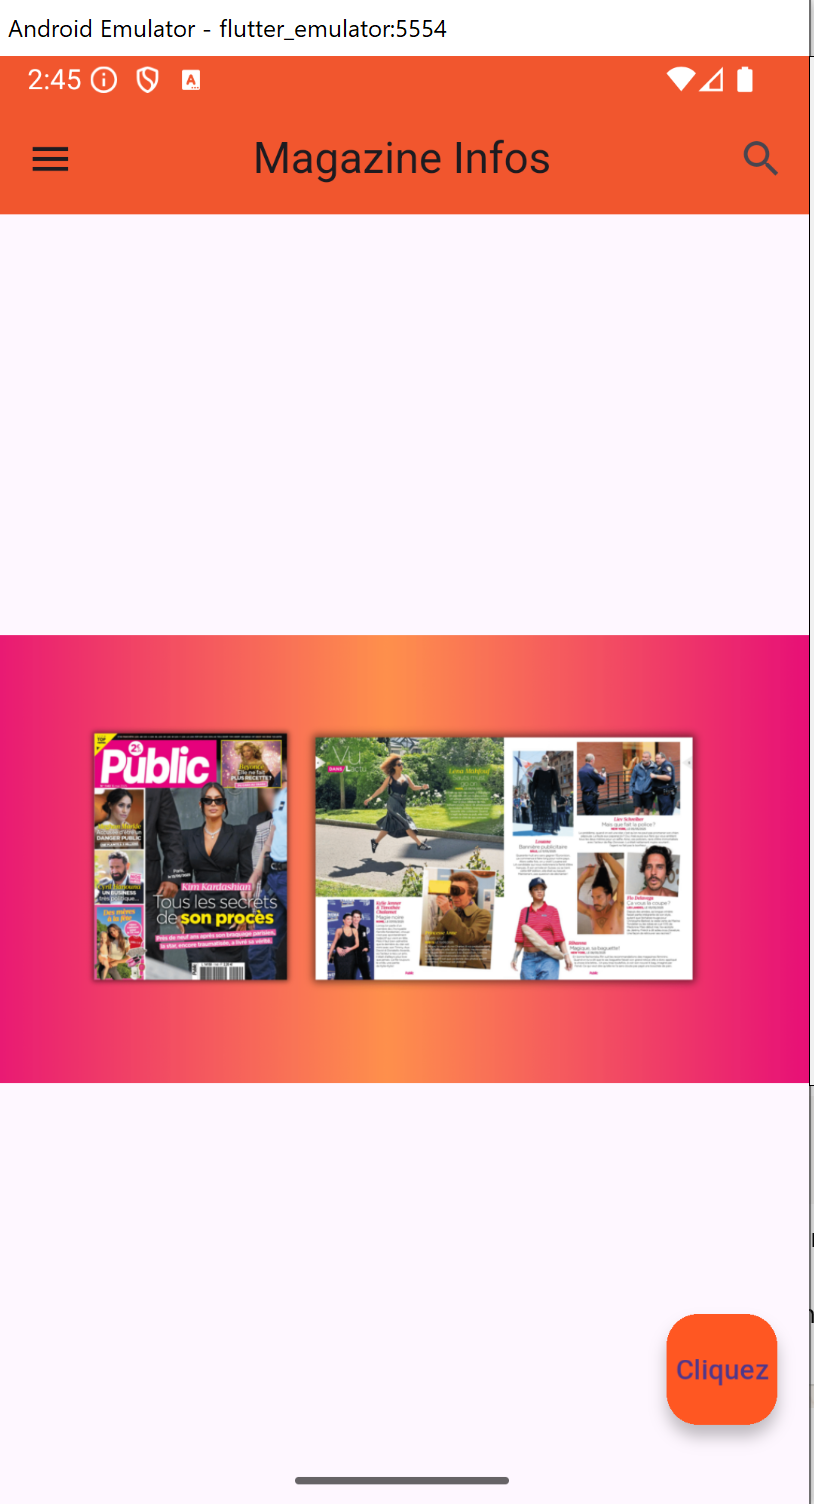
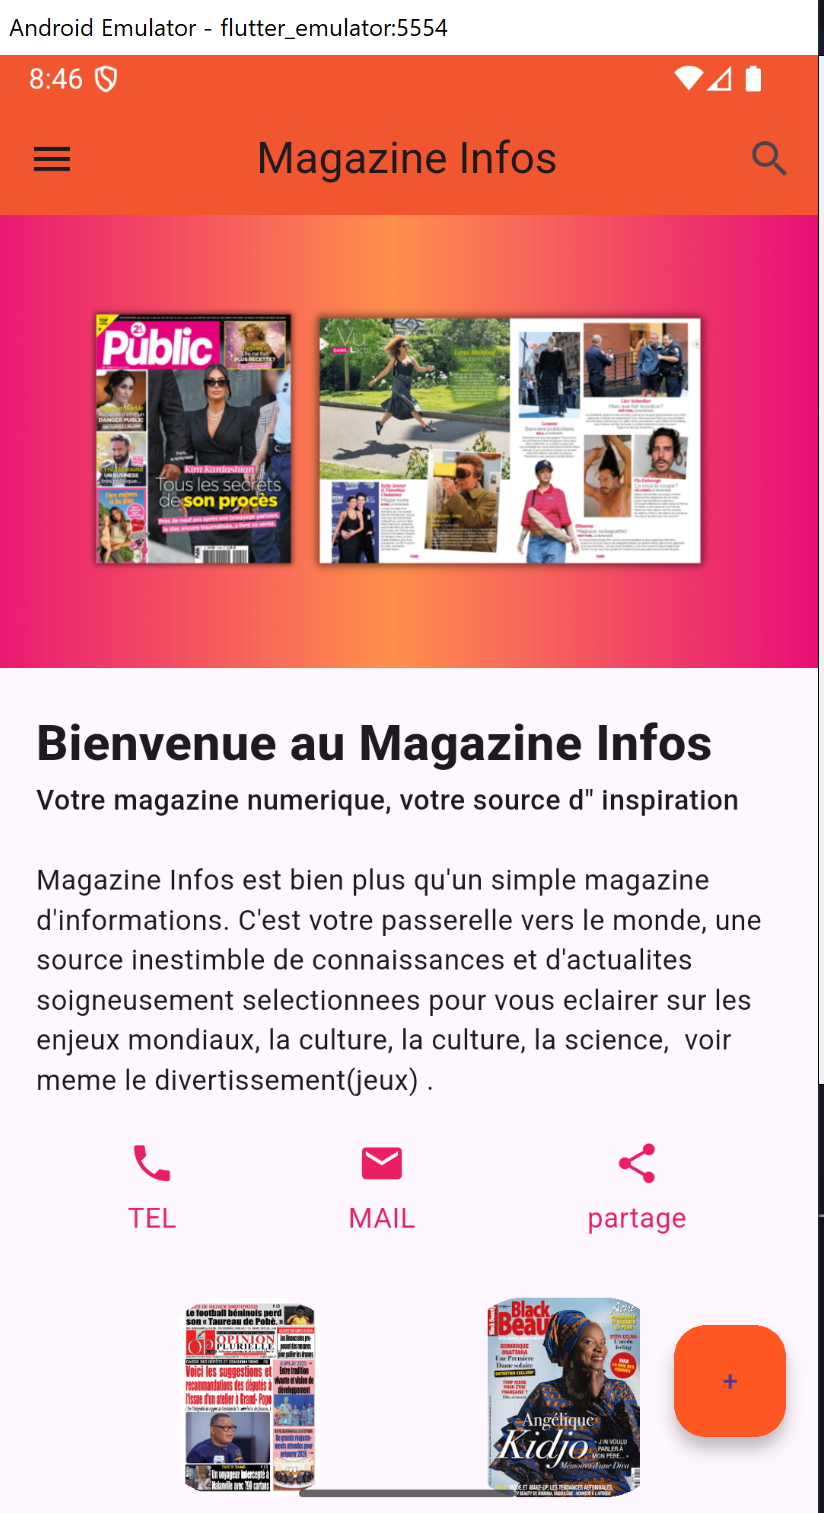
Implementation de l'Activite 4 dans l'application

diff --git a/lib/main.dart b/lib/main.dart
@@ -17,13 +17,13 @@ class MonApp extends StatelessWidget {
         visualDensity: VisualDensity
             .adaptivePlatformDensity, //Ajustement suivqnt la plateforme
       ),
-      home: pageAccueil(),
+      home: PageAccueil(),
     );
   }
 }
 
-class pageAccueil extends StatelessWidget {
-  const pageAccueil({super.key});
+class PageAccueil extends StatelessWidget {
+  const PageAccueil({super.key});
 
   @override
   Widget build(BuildContext context) {
@@ -49,8 +49,15 @@ class pageAccueil extends StatelessWidget {
           ),
         ],
       ),
-      body: const Center(
-        child: Image(image: AssetImage('assets/images/magazinei.jpg')),
+      body: const Column(
+        children: [
+          Image(image: AssetImage('assets/images/magazinei.jpg')),
+          PartieTitre(),
+          PartieTexte(),
+          PartieIcone(),
+          PartieRubrique(),
+          //PartieButton(),
+        ],
       ),
       floatingActionButton: FloatingActionButton(
         onPressed: () {
@@ -58,8 +65,153 @@ class pageAccueil extends StatelessWidget {
         },
         tooltip: "Click",
         backgroundColor: Colors.deepOrange,
-        child: const Text('Click'),
+        child: const Text('+'),
       ),
     );
   }
 }
+
+class PartieTitre extends StatelessWidget {
+  const PartieTitre({super.key});
+
+  @override
+  Widget build(BuildContext context) {
+    return Container(
+      width: double.infinity,
+      padding: const EdgeInsets.all(20),
+      child: Column(
+        crossAxisAlignment: CrossAxisAlignment.start,
+        children: [
+          Text(
+            "Bienvenue au Magazine Infos",
+            style: TextStyle(fontSize: 25, fontWeight: FontWeight.w800),
+          ),
+          Text(
+            "Votre magazine numerique, votre source d"
+            '" inspiration',
+            style: TextStyle(fontSize: 14, fontWeight: FontWeight.w500),
+          ),
+        ],
+      ),
+    );
+  }
+}
+
+class PartieTexte extends StatelessWidget {
+  const PartieTexte({super.key});
+
+  @override
+  Widget build(BuildContext context) {
+    return Container(
+      padding: const EdgeInsets.symmetric(horizontal: 20),
+      child: const Text(
+        "Magazine Infos est bien plus qu'un simple magazine d'informations. C'est votre passerelle vers le monde, une source inestimble de connaissances et d'actualites soigneusement selectionnees pour vous eclairer sur les enjeux mondiaux, la culture, la culture, la science,  voir meme le divertissement(jeux) .",
+      ),
+    );
+  }
+}
+
+class PartieIcone extends StatelessWidget {
+  const PartieIcone({super.key});
+
+  @override
+  Widget build(BuildContext context) {
+    return Container(
+      padding: const EdgeInsets.only(bottom: 10),
+      child: Row(
+        mainAxisAlignment: MainAxisAlignment.spaceEvenly,
+        children: [
+          Container(
+            padding: const EdgeInsets.all(20),
+            child: Column(
+              children: [
+                const Icon(Icons.phone, color: Colors.pink),
+                const SizedBox(height: 5),
+                Text(
+                  "Tel".toUpperCase(),
+                  style: const TextStyle(color: Colors.pink),
+                ),
+              ],
+            ),
+          ),
+          Container(
+            padding: const EdgeInsets.all(20),
+            child: Column(
+              children: [
+                const Icon(Icons.mail, color: Colors.pink),
+                const SizedBox(height: 5),
+                Text(
+                  "Mail".toUpperCase(),
+                  style: const TextStyle(color: Colors.pink),
+                ),
+              ],
+            ),
+          ),
+          Container(
+            padding: const EdgeInsets.all(20),
+            child: Column(
+              children: [
+                const Icon(Icons.share, color: Colors.pink),
+                const SizedBox(height: 5),
+                Text(
+                  "Partage".toLowerCase(),
+                  style: const TextStyle(color: Colors.pink),
+                ),
+              ],
+            ),
+          ),
+        ],
+      ),
+    );
+  }
+}
+
+class PartieRubrique extends StatelessWidget {
+  const PartieRubrique({super.key});
+
+  @override
+  Widget build(BuildContext context) {
+    return Container(
+      padding: const EdgeInsets.symmetric(horizontal: 20),
+      child: Row(
+        mainAxisAlignment: MainAxisAlignment.spaceEvenly,
+        children: [
+          ClipRRect(
+            borderRadius: BorderRadius.circular(40),
+            child: const Image(
+              image: AssetImage('assets/images/1.jpeg'),
+              width: 100.0,
+              height: 100.0,
+            ),
+          ),
+          ClipRRect(
+            borderRadius: BorderRadius.circular(30),
+            child: const Image(
+              image: AssetImage('assets/images/imgangeli.jpeg'),
+              width: 100.0,
+              height: 100.0,
+            ),
+          ),
+        ],
+      ),
+    );
+  }
+}
+
+// class PartieButton extends StatelessWidget {
+//   const PartieButton({super.key});
+
+//   @override
+//   Widget build(BuildContext context) {
+//     return Container(
+//       padding: const EdgeInsets.all(20),
+//       child: ElevatedButton.icon(
+//         icon: Icon(Icons.add_box),
+//         onPressed: () {
+//           debugPrint('Click');
+//         },
+//         label: Text("Ajouter"),
+//       ),
+//     );
+//   }
+// }
